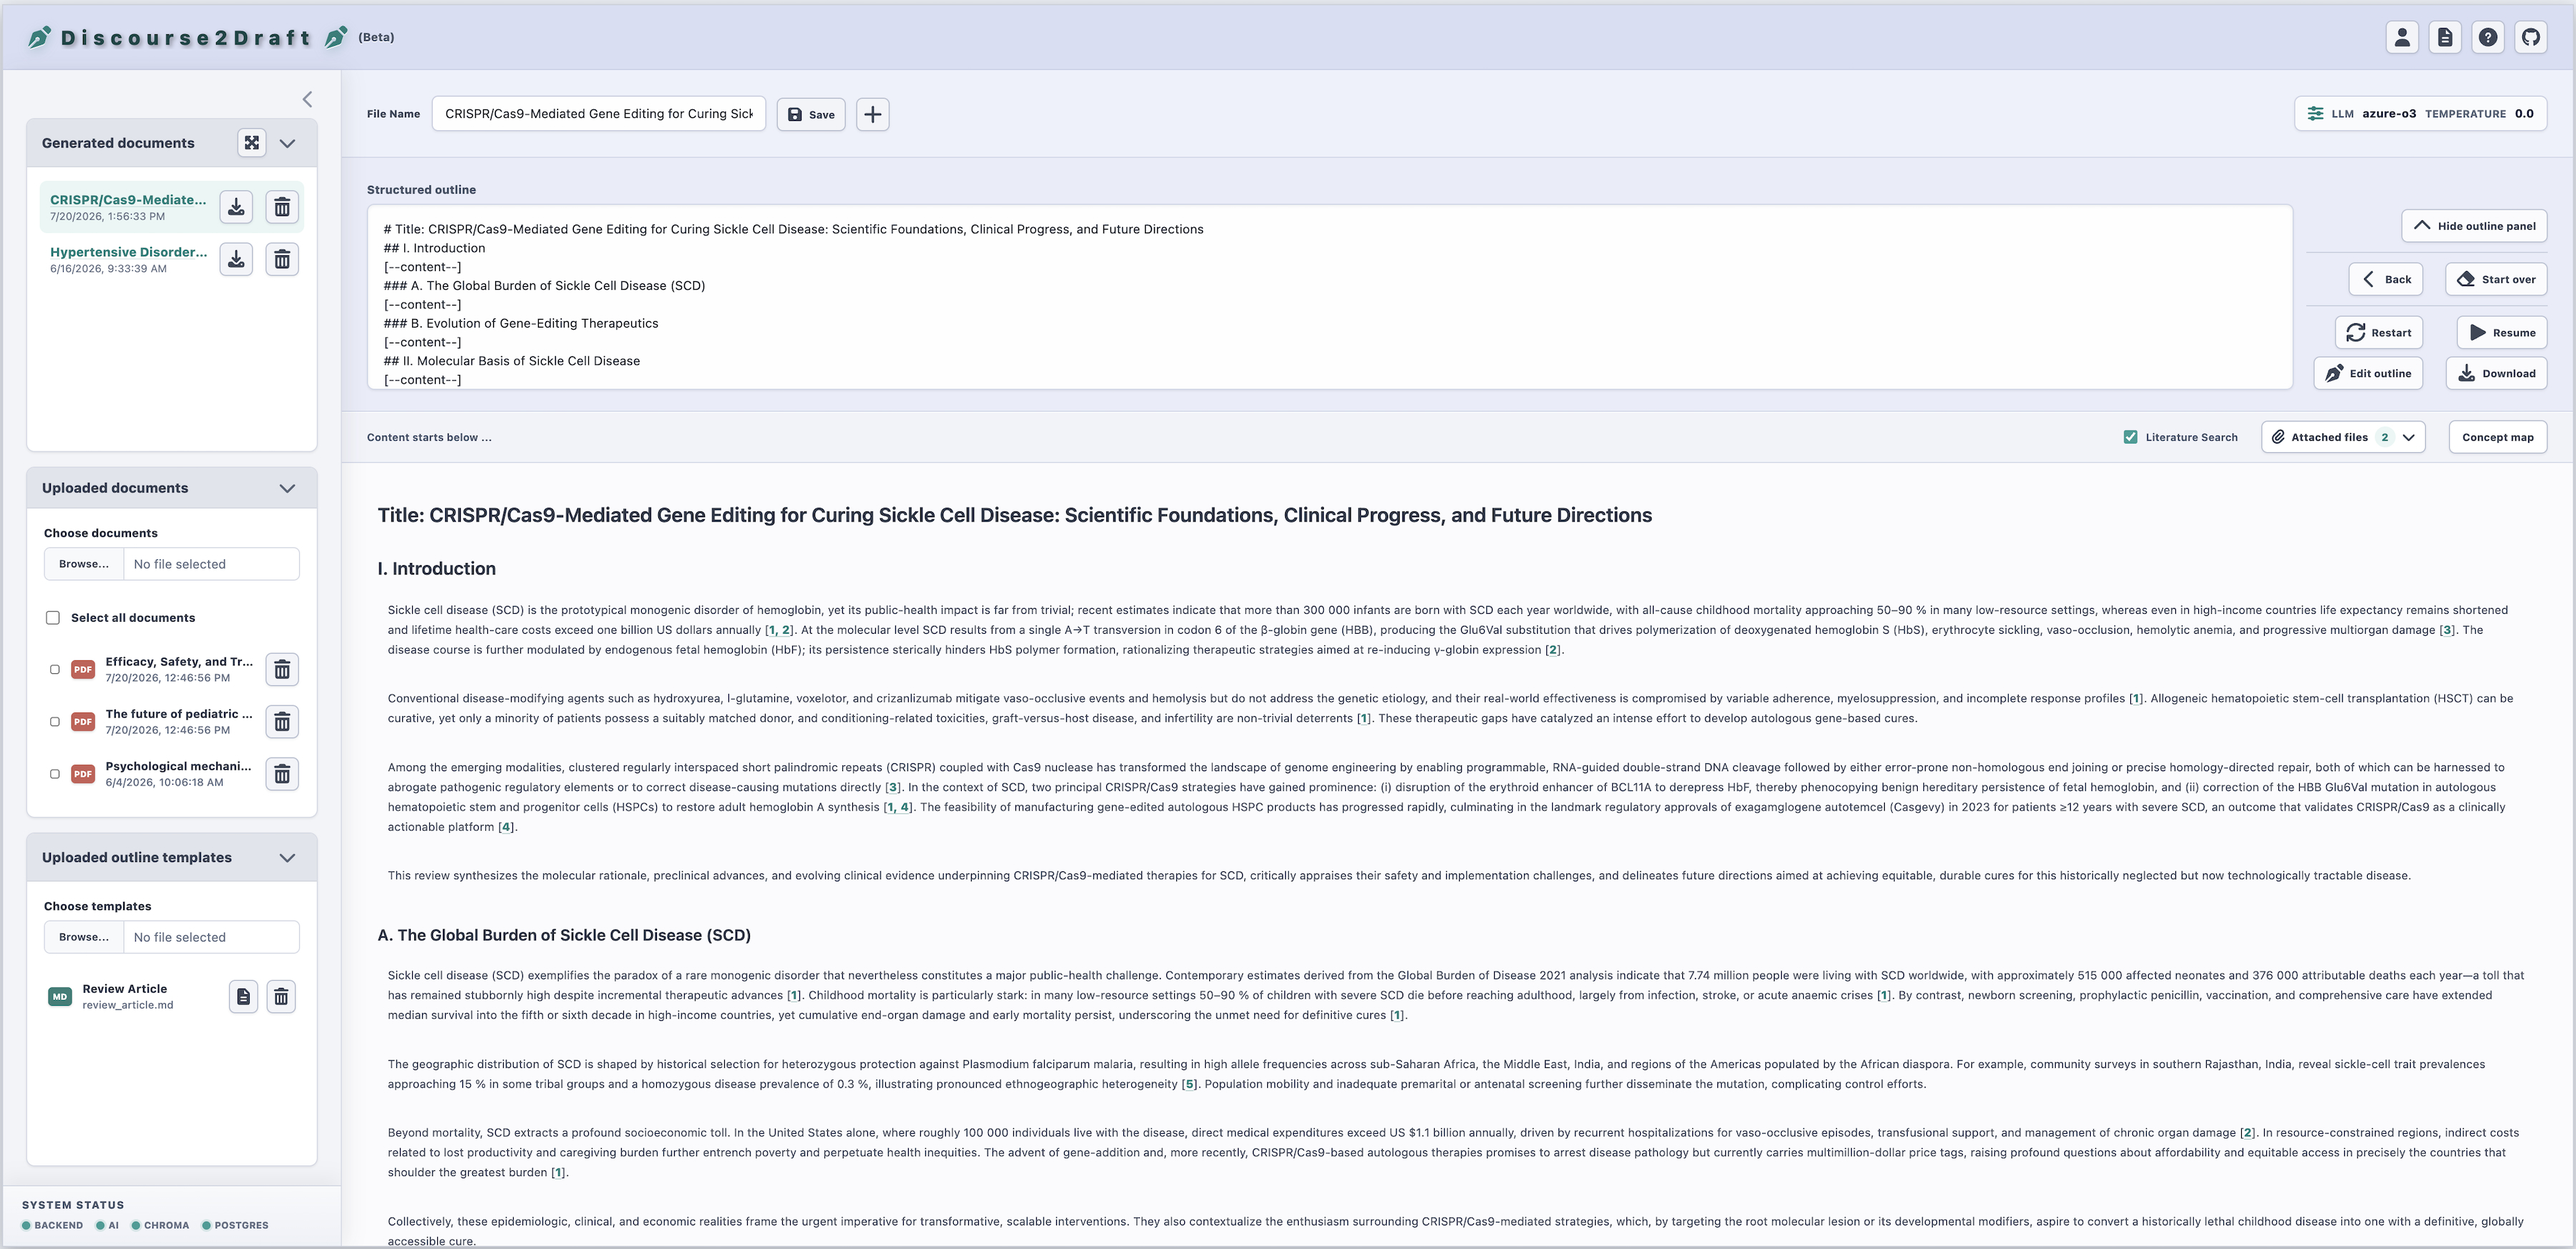
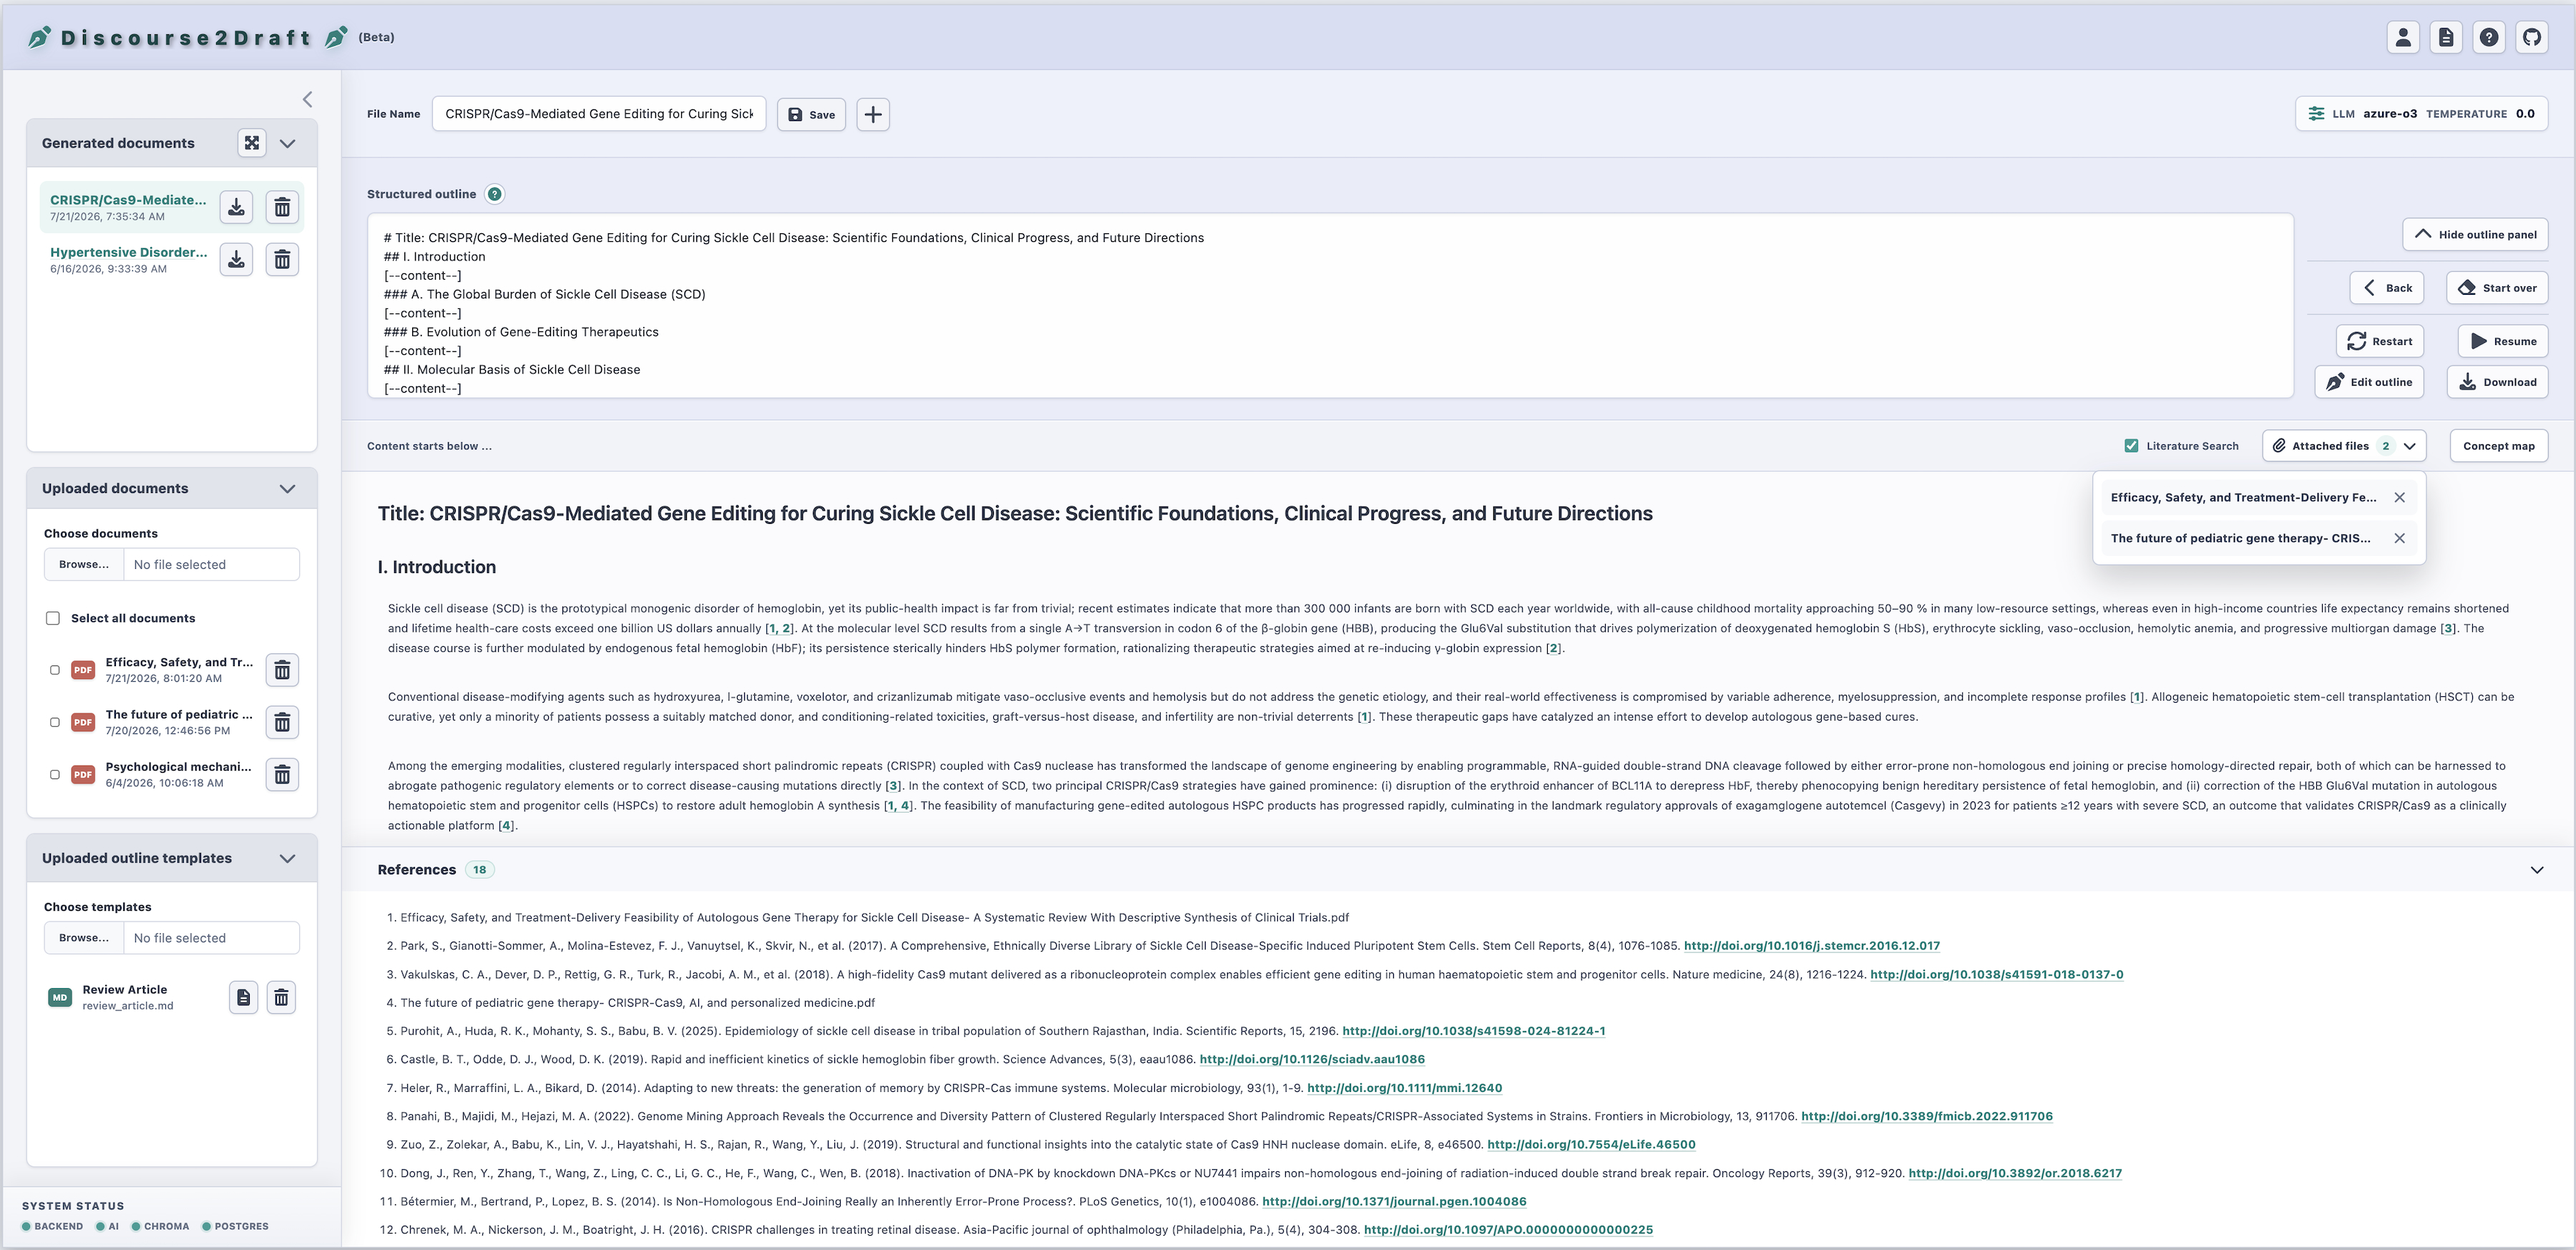
Minor feature changes

diff --git a/frontend/src/components/Manuscript.jsx b/frontend/src/components/Manuscript.jsx
@@ -1,3 +1,4 @@
+import { ChevronDown, ChevronRight } from "./FontAwesomeIcons";
 import { useEffect, useMemo, useRef, useState } from "react";
 
 const STREAM_DELAY_MS = 50;
@@ -161,9 +162,15 @@ function clearDocumentSelection() {
   window.getSelection?.()?.removeAllRanges();
 }
 
-function renderParagraphContent(paragraph) {
+function referenceIndexFromCitationLabel(label) {
+  const match = String(label ?? "").match(/\d+/);
+  if (!match) return -1;
+  return Math.max(0, Number.parseInt(match[0], 10) - 1);
+}
+
+function renderParagraphContent(paragraph, onCitationClick) {
   const text = String(paragraph ?? "");
-  const citationPattern = /<a\s+href="#:~:text=References">([^<]+)<\/a>/g;
+  const citationPattern = /<a\b[^>]*href=["']#:~:text=References["'][^>]*>([^<]+)<\/a>/g;
   const parts = [];
   let lastIndex = 0;
   let match;
@@ -173,7 +180,16 @@ function renderParagraphContent(paragraph) {
       parts.push(text.slice(lastIndex, match.index));
     }
     parts.push(
-      <a href="#References" className="manuscript-citation" key={`${match.index}-${match[1]}`}>
+      <a
+        href="#:~:text=References"
+        className="manuscript-citation"
+        key={`${match.index}-${match[1]}`}
+        onClick={(event) => {
+          event.preventDefault();
+          event.stopPropagation();
+          onCitationClick?.(referenceIndexFromCitationLabel(match[1]));
+        }}
+      >
         {match[1]}
       </a>,
     );
@@ -215,6 +231,60 @@ function renderReference(reference) {
   return parts.length ? parts : text;
 }
 
+function ManuscriptReferencesPanel({ references = [], highlightedReferenceIndex = -1, isExpanded = false, onExpandedChange }) {
+  const panelRef = useRef(null);
+  const referenceRefs = useRef(new Map());
+  const visibleReferences = references.filter((reference) => String(reference ?? "").trim());
+
+  useEffect(() => {
+    if (!isExpanded || highlightedReferenceIndex < 0) return undefined;
+
+    const frameId = window.requestAnimationFrame(() => {
+      panelRef.current?.scrollIntoView({ block: "nearest", behavior: "smooth" });
+      const targetElement = referenceRefs.current.get(highlightedReferenceIndex);
+      targetElement?.scrollIntoView({ block: "nearest", behavior: "smooth" });
+    });
+
+    return () => window.cancelAnimationFrame(frameId);
+  }, [highlightedReferenceIndex, isExpanded]);
+
+  if (!visibleReferences.length) return null;
+
+  return (
+    <section className={`manuscript-references-panel ${isExpanded ? "is-expanded" : ""}`} id="References" aria-labelledby="manuscript-references-title" ref={panelRef}>
+      <button className="manuscript-references-toggle" type="button" aria-expanded={isExpanded} aria-controls="manuscript-references-body" onClick={() => onExpandedChange?.(!isExpanded)}>
+        <span className="manuscript-references-title" id="manuscript-references-title">
+          References
+          <span>{visibleReferences.length}</span>
+        </span>
+        {isExpanded ? <ChevronDown size={14} /> : <ChevronRight size={14} />}
+      </button>
+      {isExpanded ? (
+        <div className="manuscript-references-body" id="manuscript-references-body">
+          <ol>
+            {visibleReferences.map((reference, index) => (
+              <li
+                className={highlightedReferenceIndex === index ? "manuscript-reference-highlighted" : ""}
+                id={`Reference-${index + 1}`}
+                key={`${index}-${reference}`}
+                ref={(element) => {
+                  if (element) {
+                    referenceRefs.current.set(index, element);
+                  } else {
+                    referenceRefs.current.delete(index);
+                  }
+                }}
+              >
+                {renderReference(reference)}
+              </li>
+            ))}
+          </ol>
+        </div>
+      ) : null}
+    </section>
+  );
+}
+
 export function Manuscript({
   manuscript = [],
   refList = [],
@@ -245,6 +315,13 @@ export function Manuscript({
   const shellRef = useRef(null);
   const sectionRefs = useRef(new Map());
   const [streamedSections, setStreamedSections] = useState(sections);
+  const [isReferencesExpanded, setIsReferencesExpanded] = useState(false);
+  const [highlightedReferenceIndex, setHighlightedReferenceIndex] = useState(-1);
+
+  useEffect(() => {
+    setIsReferencesExpanded(false);
+    setHighlightedReferenceIndex(-1);
+  }, [refList]);
 
   useEffect(() => {
     if (syncVersion !== lastSyncVersionRef.current) {
@@ -352,71 +429,88 @@ export function Manuscript({
     onParagraphSelectionChange?.(null);
   }
 
+  function handleManuscriptClickCapture(event) {
+    const citationLink = event.target.closest?.("a[href]");
+    if (!citationLink) return;
+
+    const href = citationLink.getAttribute("href") ?? "";
+    const isReferencesLink = citationLink.classList.contains("manuscript-citation") || href === "#References" || href.includes("#:~:text=References");
+    if (!isReferencesLink) return;
+
+    event.preventDefault();
+    event.stopPropagation();
+    handleCitationClick(referenceIndexFromCitationLabel(citationLink.textContent));
+  }
+
+  function handleCitationClick(referenceIndex) {
+    clearDocumentSelection();
+    onParagraphSelectionChange?.(null);
+    setIsReferencesExpanded(true);
+    setHighlightedReferenceIndex(referenceIndex);
+
+    window.requestAnimationFrame(() => {
+      document.getElementById("References")?.scrollIntoView({ block: "nearest", behavior: "smooth" });
+    });
+  }
+
   return (
-    <div className="manuscript-shell" onClick={handleShellClick} ref={shellRef}>
-      <article className="manuscript" id="preview">
-        {visibleSections.map((section, index) => {
-          const sectionKey = sectionDomKey(section, index);
-          const paragraphs = splitBodyIntoParagraphs(section.body);
-          const showLoadingDots = shouldShowLoadingDots({
-            index,
-            section,
-            targetSection: sections[index],
-            currentWritingSection,
-            isActiveStreamingSection: index === activeStreamingIndex,
-          });
+    <div className="manuscript-area">
+      <div className="manuscript-shell" onClick={handleShellClick} onClickCapture={handleManuscriptClickCapture} ref={shellRef}>
+        <article className="manuscript" id="preview">
+          {visibleSections.map((section, index) => {
+            const sectionKey = sectionDomKey(section, index);
+            const paragraphs = splitBodyIntoParagraphs(section.body);
+            const showLoadingDots = shouldShowLoadingDots({
+              index,
+              section,
+              targetSection: sections[index],
+              currentWritingSection,
+              isActiveStreamingSection: index === activeStreamingIndex,
+            });
 
-          return (
-            <section
-              key={sectionKey}
-              className={section.isAbstract ? "abstract-block" : ""}
-              ref={(element) => {
-                if (element) {
-                  sectionRefs.current.set(sectionKey, element);
-                } else {
-                  sectionRefs.current.delete(sectionKey);
-                }
-              }}
-            >
-              {section.heading ? <ManuscriptHeading level={section.level}>{section.heading}</ManuscriptHeading> : null}
-              {paragraphs.map((paragraph, paragraphIndex) => {
-                const id = paragraphId(section, index, paragraphIndex);
-                const isUpdatingParagraph = updatingParagraphId === id;
+            return (
+              <section
+                key={sectionKey}
+                className={section.isAbstract ? "abstract-block" : ""}
+                ref={(element) => {
+                  if (element) {
+                    sectionRefs.current.set(sectionKey, element);
+                  } else {
+                    sectionRefs.current.delete(sectionKey);
+                  }
+                }}
+              >
+                {section.heading ? <ManuscriptHeading level={section.level}>{section.heading}</ManuscriptHeading> : null}
+                {paragraphs.map((paragraph, paragraphIndex) => {
+                  const id = paragraphId(section, index, paragraphIndex);
+                  const isUpdatingParagraph = updatingParagraphId === id;
 
-                return (
-                  <p
-                    className={`manuscript-paragraph ${selectedParagraphId === id ? "manuscript-paragraph-selected" : ""} ${isUpdatingParagraph ? "manuscript-paragraph-updating" : ""}`.trim()}
-                    key={id}
-                    onClick={(event) => handleParagraphClick(event, section, index, paragraph, paragraphIndex)}
-                    onKeyDown={(event) => {
-                      if (event.key === "Enter" || event.key === " ") {
-                        event.preventDefault();
-                        handleParagraphClick(event, section, index, paragraph, paragraphIndex);
-                      }
-                    }}
-                    role="button"
-                    tabIndex={0}
-                    aria-pressed={selectedParagraphId === id}
-                  >
-                    {isUpdatingParagraph ? <LoadingDots inline /> : renderParagraphContent(paragraph)}
-                  </p>
-                );
-              })}
-              {showLoadingDots ? <LoadingDots /> : null}
-            </section>
-          );
-        })}
-      </article>
-      {refList.length ? (
-        <section className="manuscript-references-panel" id="References" aria-labelledby="manuscript-references-title">
-          <h2 id="manuscript-references-title">References</h2>
-          <ol>
-            {refList.map((reference, index) => (
-              <li key={`${index}-${reference}`}>{renderReference(reference)}</li>
-            ))}
-          </ol>
-        </section>
-      ) : null}
+                  return (
+                    <p
+                      className={`manuscript-paragraph ${selectedParagraphId === id ? "manuscript-paragraph-selected" : ""} ${isUpdatingParagraph ? "manuscript-paragraph-updating" : ""}`.trim()}
+                      key={id}
+                      onClick={(event) => handleParagraphClick(event, section, index, paragraph, paragraphIndex)}
+                      onKeyDown={(event) => {
+                        if (event.key === "Enter" || event.key === " ") {
+                          event.preventDefault();
+                          handleParagraphClick(event, section, index, paragraph, paragraphIndex);
+                        }
+                      }}
+                      role="button"
+                      tabIndex={0}
+                      aria-pressed={selectedParagraphId === id}
+                    >
+                      {isUpdatingParagraph ? <LoadingDots inline /> : renderParagraphContent(paragraph, handleCitationClick)}
+                    </p>
+                  );
+                })}
+                {showLoadingDots ? <LoadingDots /> : null}
+              </section>
+            );
+          })}
+        </article>
+      </div>
+      <ManuscriptReferencesPanel references={refList} highlightedReferenceIndex={highlightedReferenceIndex} isExpanded={isReferencesExpanded} onExpandedChange={setIsReferencesExpanded} />
     </div>
   );
 }

diff --git a/frontend/src/styles.css b/frontend/src/styles.css
@@ -4132,7 +4132,16 @@ time {
   font-weight: 700;
 }
 
+.manuscript-area {
+  min-height: 0;
+  display: grid;
+  grid-template-rows: minmax(0, 1fr) auto;
+  overflow: hidden;
+  background: #fbfbfd;
+}
+
 .manuscript-shell {
+  min-height: 0;
   overflow: auto;
   background: #fbfbfd;
   color: #454c5a;
@@ -4247,26 +4256,63 @@ time {
 }
 
 .manuscript-references-panel {
-  margin: 0 34px 42px;
-  border: 1px solid #d6dbe9;
-  border-radius: 8px;
+  border-top: 1px solid #d6dbe9;
   background: #ffffff;
-  padding: 18px 20px;
-  box-shadow: var(--shadow-sm);
+  box-shadow: 0 -8px 20px rgba(32, 39, 52, 0.06);
 }
 
-.manuscript-references-panel h2 {
-  margin: 0 0 12px;
+.manuscript-references-toggle {
+  width: 100%;
+  min-height: 42px;
+  display: flex;
+  align-items: center;
+  justify-content: space-between;
+  gap: 14px;
+  border: 0;
+  background: #f6f8fc;
   color: #303849;
-  font-size: 14px;
+  font-family: var(--font-ui);
+  padding: 0 28px 0 34px;
+}
+
+.manuscript-references-toggle:hover {
+  background: #eef3f8;
+}
+
+.manuscript-references-title {
+  display: inline-flex;
+  align-items: center;
+  gap: 8px;
+  color: #303849;
+  font-size: 13px;
   font-weight: 850;
+}
+
+.manuscript-references-title span {
+  min-width: 22px;
+  display: inline-flex;
+  justify-content: center;
+  border: 1px solid rgba(43, 157, 149, 0.24);
+  border-radius: 999px;
+  background: #e8f6f5;
+  color: var(--accent-strong);
+  padding: 2px 7px;
+  font-size: 10px;
+  font-weight: 850;
+}
+
+.manuscript-references-body {
+  max-height: min(34vh, 340px);
+  overflow: auto;
+  padding: 16px 34px 20px 56px;
+  scrollbar-color: #b9c0ce transparent;
 }
 
 .manuscript-references-panel ol {
   display: grid;
   gap: 9px;
   margin: 0;
-  padding-left: 22px;
+  padding-left: 0;
 }
 
 .manuscript-references-panel li,
@@ -4274,6 +4320,22 @@ time {
   color: #4a5160;
   font-size: 11px;
   line-height: 1.65;
+}
+
+.manuscript-references-panel li {
+  scroll-margin: 12px;
+  border-radius: 7px;
+  padding: 5px 7px;
+  transition:
+    background-color 160ms ease,
+    box-shadow 160ms ease;
+}
+
+.manuscript-reference-highlighted {
+  background: #e8f6f5;
+  box-shadow:
+    inset 3px 0 0 var(--accent),
+    0 4px 12px rgba(25, 31, 44, 0.08);
 }
 
 .manuscript-reference-link {
@@ -4755,7 +4817,11 @@ time {
     padding: 22px 14px 42px;
   }
 
-  .manuscript-references-panel {
-    margin: 0 14px 28px;
+  .manuscript-references-toggle {
+    padding: 0 14px;
+  }
+
+  .manuscript-references-body {
+    padding: 14px 16px 18px 34px;
   }
 }
